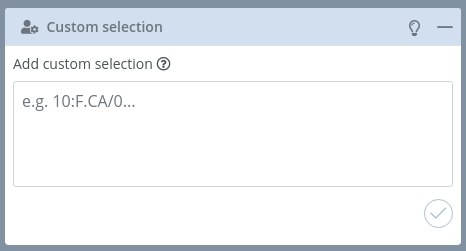
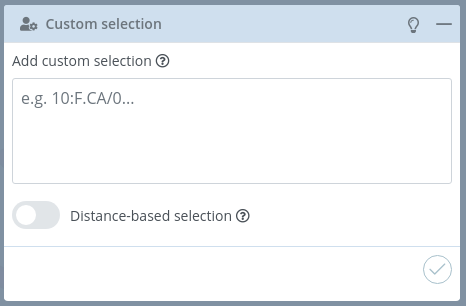
Added radius to cartoon and distance-based selection

Changed region(s): [[0.0, 0.0, 0.9914, 0.753], [0.0, 0.7809, 0.9914, 0.9482], [0.0, 0.9482, 0.9914, 1.0]]

diff --git a/3drs-docs/docs/source/edit.md b/3drs-docs/docs/source/edit.md
@@ -412,6 +412,7 @@ Through this slider, the **radius** can be modified in the next molecular repres
 
 * Backbone
 * Ball and stick
+* Cartoon
 * Licorice
 * Spacefill
 
@@ -599,6 +600,22 @@ There is a mini menu at the right side of the block header:
 
 * **Show tips:** ![](_static/edit/edit38.png) opens a modal dialog with a short help for this section
 * **Show / hide block:** ![](_static/edit/edit37.png) allows to open or collapse the panel.
+
+#### Distance-based selection
+
+If enabled, a selection of atoms that are within a certain distance of the selection will be given instead of the selection itself.
+
+![](_static/edit/edit36b.png)
+
+After enabling this option, two new parameters are shown:
+
+##### Distance
+
+Distance from selection in Ångstroms.
+
+##### Whole residue(s)
+
+Whether to select or not the whole residue from the selected atoms.
 
 Two actions can be performed after writing the custom selection:
 
